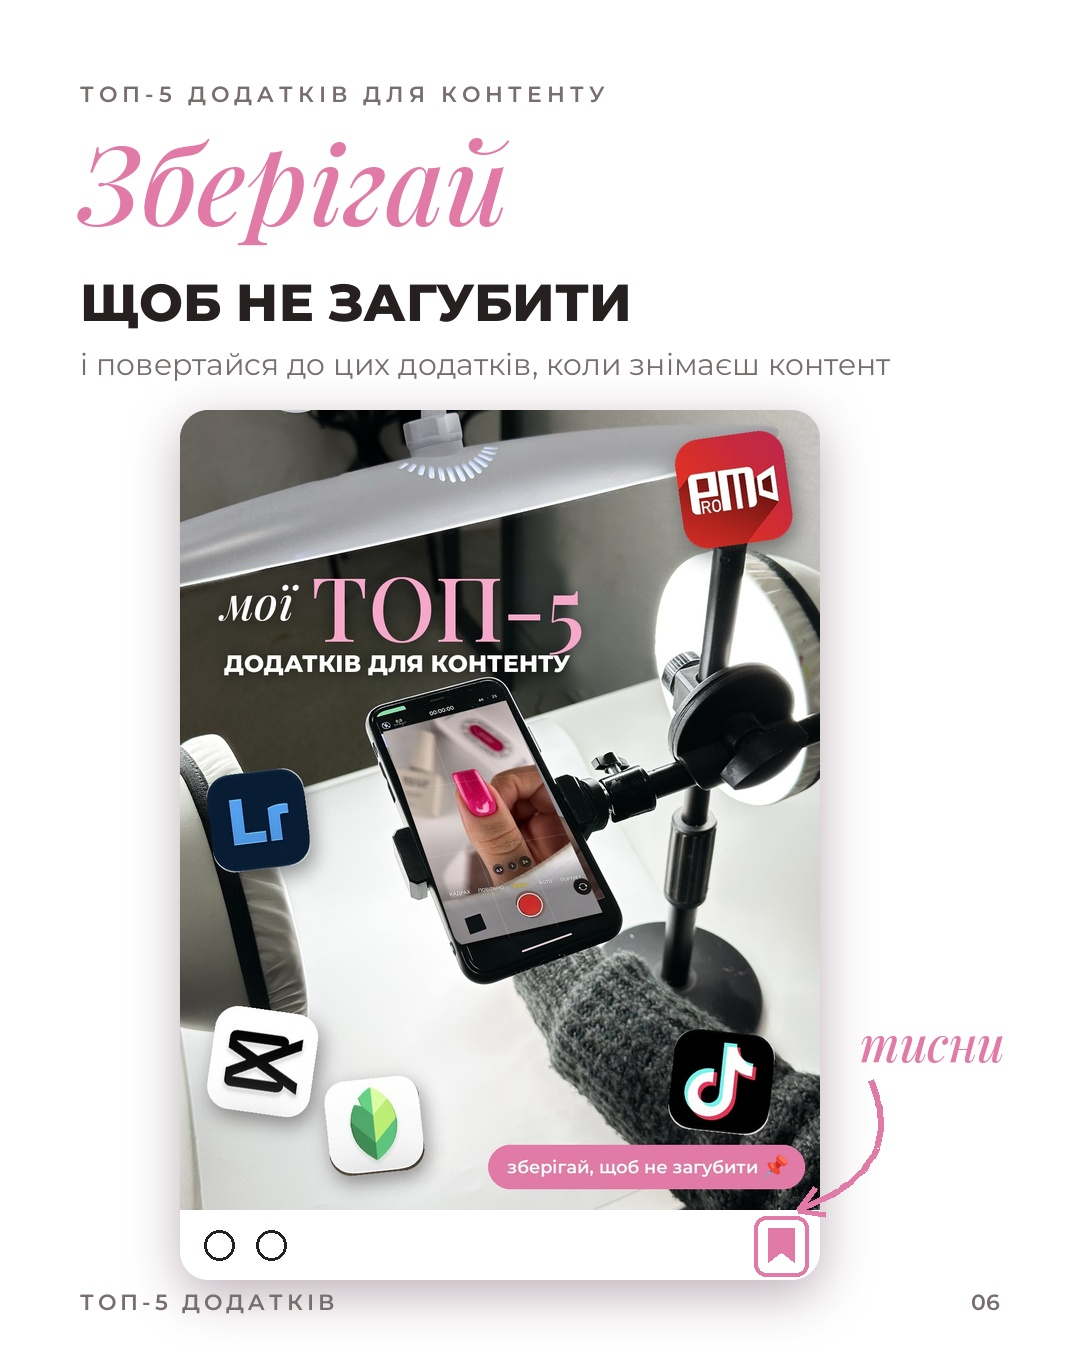
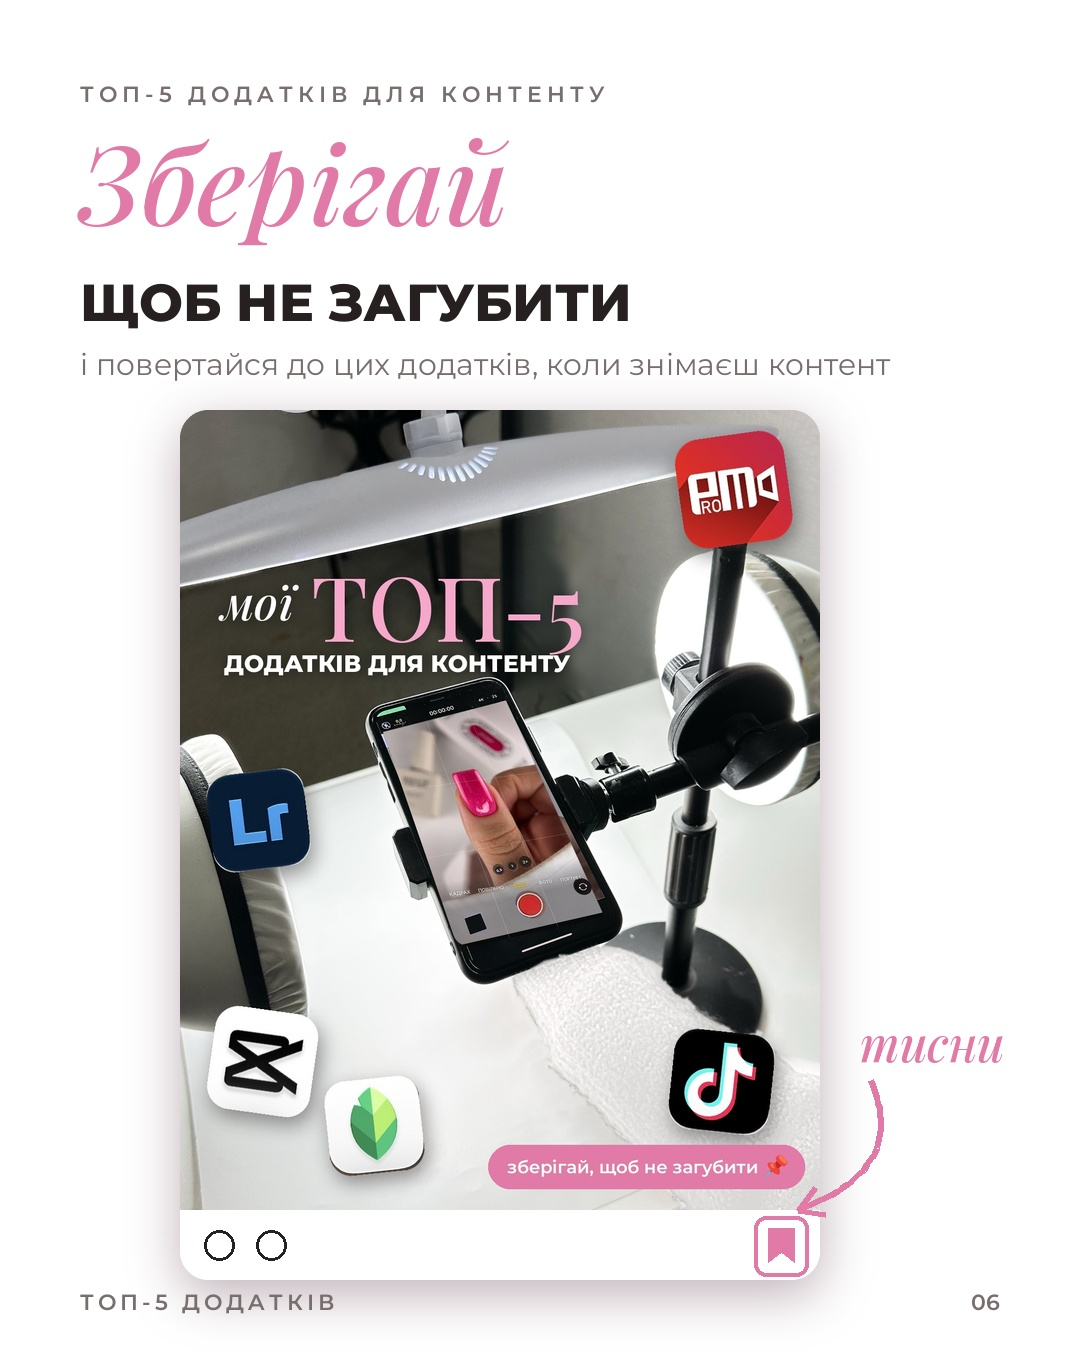
Apps cover: white sleeve instead of grey knit
Claude-Session: https://claude.ai/code/session_0191xVL2hi5vHUvM1ix6pauC

Changed region(s): [[0.4583, 0.6844, 0.7639, 0.9022]]

diff --git a/karusel_dodatky/build_sleeve.py b/karusel_dodatky/build_sleeve.py
@@ -1,0 +1,24 @@
+import cv2, numpy as np, sys
+R,S=sys.argv[1:3]
+im=cv2.imread(f'{R}/karusel_dodatky/setup_clean.jpg')
+pts=[(55,118),(100,92),(150,80),(200,88),(250,108),(290,138),(330,168),(380,198),(440,228),(516,246),(516,513),(330,513),(300,452),(262,420),(240,382),(200,332),(150,282),(110,252),(103,222),(80,170),(55,132)]
+P=np.array([[x*2+900,y*2+1550] for x,y in pts],np.int32)
+m=np.zeros(im.shape[:2],np.uint8); cv2.fillPoly(m,[P],255)
+hsv=cv2.cvtColor(im,cv2.COLOR_BGR2HSV); grey=((hsv[...,2]>75)&(hsv[...,2]<185)&(hsv[...,1]<45)).astype(np.uint8)*255
+band=cv2.dilate(m,np.ones((61,61),np.uint8))
+ext=cv2.bitwise_and(grey,band)
+# exclude stand base disc area (dark, low sat but v<60 mostly) - keep threshold v>45 ok; exclude the pole column
+cv2.rectangle(ext,(1555,1550),(1640,1950),0,-1)
+m2=cv2.bitwise_or(m,ext); m2=cv2.morphologyEx(m2,cv2.MORPH_CLOSE,np.ones((15,15),np.uint8))
+n,lab,st,_=cv2.connectedComponentsWithStats(m2); k=1+np.argmax(st[1:,4]); m2=((lab==k)*255).astype(np.uint8)
+mf=cv2.GaussianBlur(m2,(0,0),2.5).astype(float)[...,None]/255
+g=cv2.cvtColor(im,cv2.COLOR_BGR2GRAY).astype(float)
+sel=m2>0; mu=g[sel].mean(); sd=g[sel].std()
+shade=cv2.GaussianBlur(g,(0,0),40); shade=(shade-shade[sel].mean())/(shade[sel].std()+1e-6)
+detail=(g-cv2.GaussianBlur(g,(0,0),6))/(sd+1e-6)
+dist=cv2.distanceTransform(m2,cv2.DIST_L2,5)
+white=np.clip(232+shade*9+detail*16-30*np.exp(-dist/22),165,255)
+wim=np.stack([white*0.985,white*0.99,white],-1)
+out=(wim*mf+im*(1-mf)).astype(np.uint8)
+cv2.imwrite(f'{R}/karusel_dodatky/setup_clean_white.jpg',out,[cv2.IMWRITE_JPEG_QUALITY,95])
+cv2.imwrite(f'{S}/vl/sw.png',cv2.resize(out[1450:2576,800:1932],(566,563)))

diff --git a/karusel_dodatky/build_screen.py b/karusel_dodatky/build_screen.py
@@ -1,7 +1,7 @@
 import sys, os, cv2, numpy as np
 from PIL import Image, ImageDraw, ImageFont, ImageFilter
 R,U,OUTP,CROP=sys.argv[1],sys.argv[2],sys.argv[3],[int(v) for v in sys.argv[4].split(',')]
-bg=cv2.imread(f'{R}/karusel_dodatky/setup_clean.jpg')
+bg=cv2.imread(f'{R}/karusel_dodatky/setup_clean_white.jpg')
 FW,FH=1000,1800
 src=np.float32([[584,962],[1000,926],[1308,1592],[840,1700]]); dstf=np.float32([[0,0],[FW,0],[FW,FH],[0,FH]])
 M=cv2.getPerspectiveTransform(src,dstf); flat=cv2.cvtColor(cv2.warpPerspective(bg,M,(FW,FH)),cv2.COLOR_BGR2RGB)
